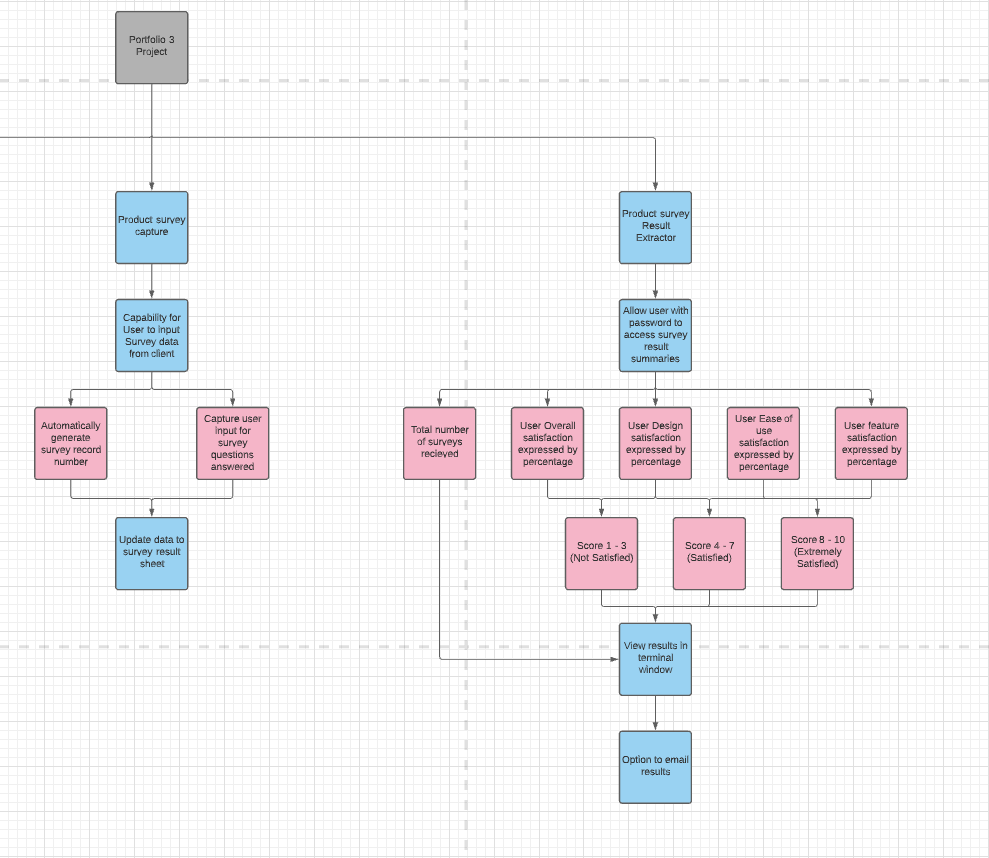
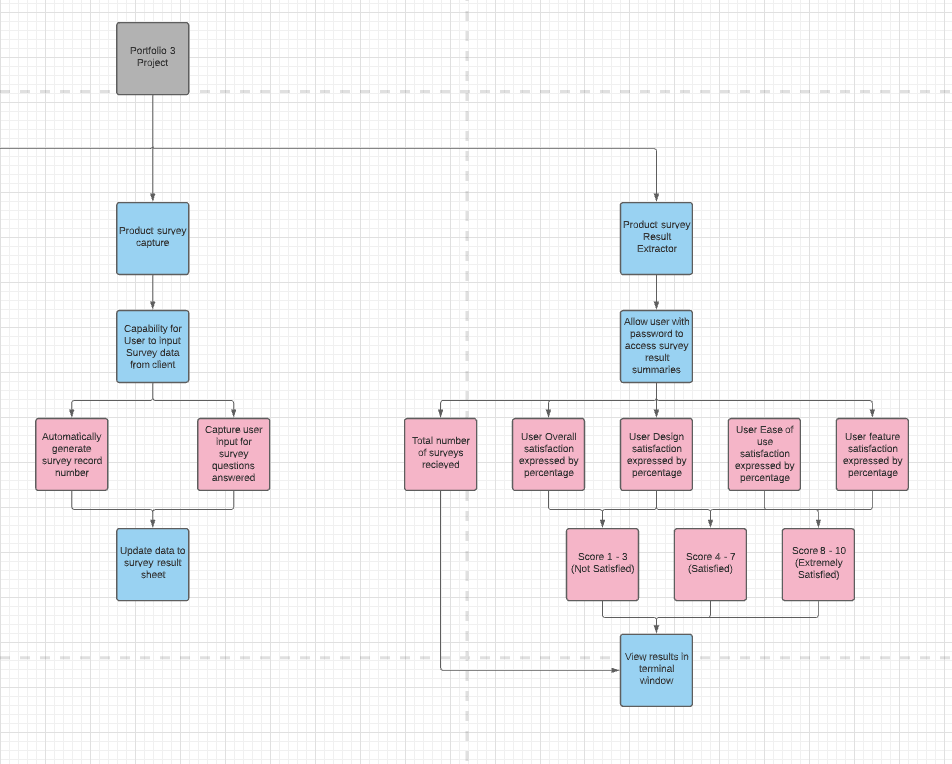
docs: Change flowchart image to correct image and add content to features section of readme

diff --git a/README.md b/README.md
@@ -6,7 +6,9 @@
 
 - Here is an overview of the intial concept:
 
+
 ![initial_flowchart](assets/images/screenshots/complete_lucid_chart.png)
+
 
 I decided to create a data processor for capturing and processing survey data of a customer satifaction questionaire for a ficticious new cellphone that was launched. It must allow users to input survey ratings, validate the users input, allocate the data with an entry number, store the validated data on Google Sheets while also allowing the user to get a summary report of captured and stored data from the surveys captured. I also wanted to create a function that would create generic survey data for filling the worksheet with data to process and add the functionality for the user to email the summary results.
 
@@ -14,7 +16,9 @@ I decided to create a data processor for capturing and processing survey data of
 
 - This was now the scope of my project:
 
-![actual_flowchart](assets/images/screenshots/complete_lucid_chart.png)
+
+![actual_flowchart](assets/images/screenshots/actual_lucid_chart.png)
+
 
 ## Setup of Gitpod Workspace and resources
 
@@ -28,6 +32,22 @@ I made use of Code Institutes "Love Sandwiches Walkthrough Project", "Getting Se
 
 ### Existing Features
 
+- When initializing the program, the user is dispalyed a welcome message, instructions and options either to capture a customer survey or view a summary of the results captured thus far.
+
+
+![welcome_screen](assets/images/screenshots/welcome_screen.png)
+
+
+- User input is validated by the program and will display custom error messages that are highlighted in red if the user has made some form of invalid entry and the question will be repeated in the terminal.
+
+
+![welcome_invalid_input](assets/images/screenshots/welcome_invalid_entry.png)
+
+
+- If the user selects the first option and presses enter, instructions for capturing a survey are presented to the user.
+
+
+![instructions_survey_entry](assets/images/screenshots/instructions_survey_entry.png)
 ## Testing
 
 - Made use of the terminal window and print function on multiple occasions in order to view data and check if functions work as expected.
